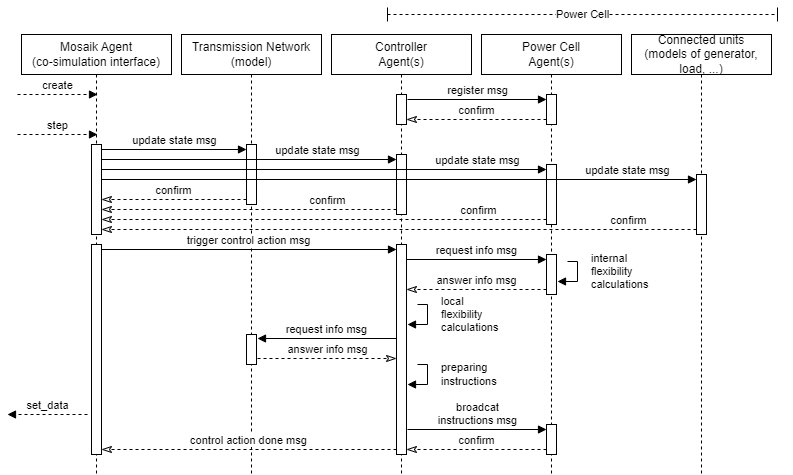
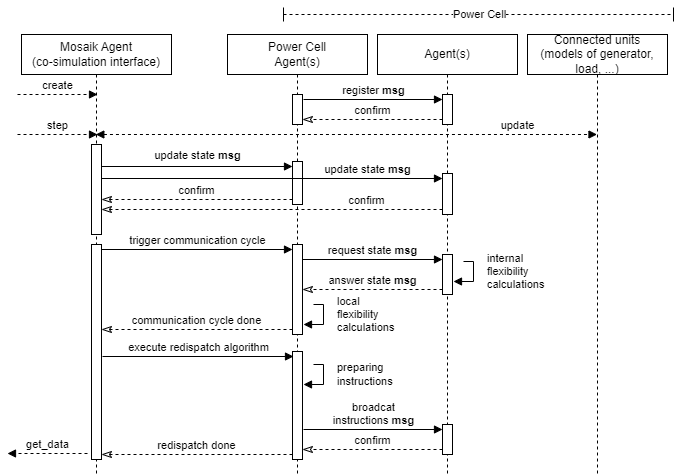
diagram

diff --git a/mosaik_components/mas/mosaik_agents.py b/mosaik_components/mas/mosaik_agents.py
@@ -295,7 +295,7 @@ class MosaikAgent(mango.Agent):
 
     async def trigger_communication_cycle(self):
         """
-        Trigger control cycle after all the agents got their updates from Mosaik.
+        Trigger communication/control cycle after all the agents got their updates from Mosaik.
         """
 
         #self._aggregated_state = copy.deepcopy(self.state)
